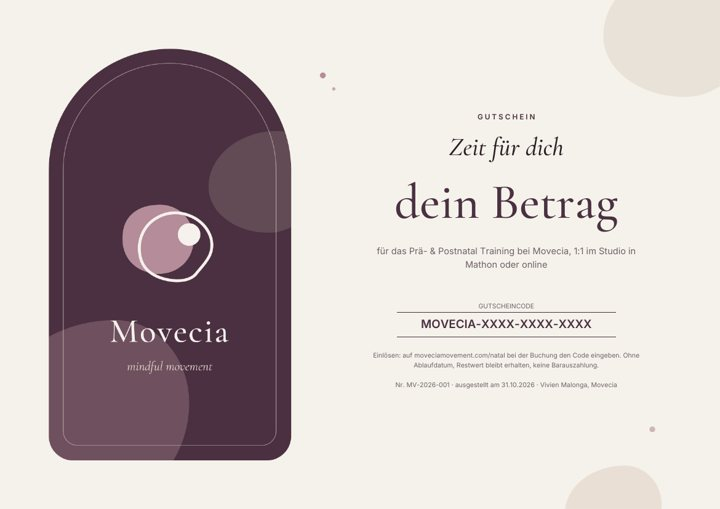
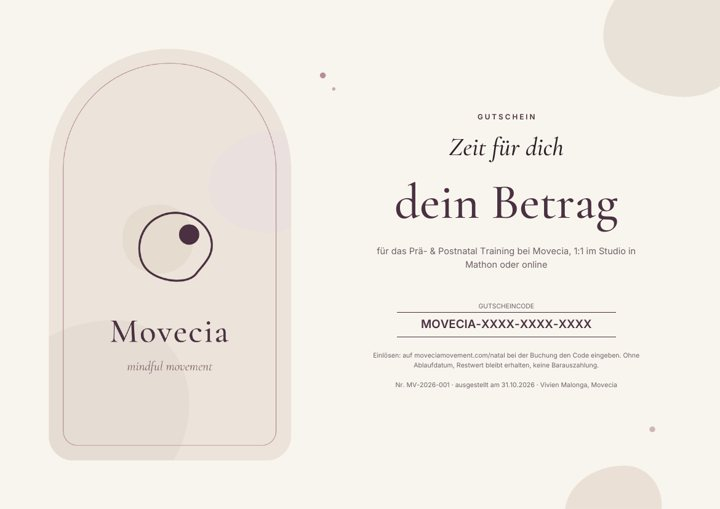
Movecia-Gutschein Design Bogen hell statt dunkel (Vivien)
Claude-Session: https://claude.ai/code/session_01NPiwcDA8CXSkHyMf118A8m

Changed region(s): [[0.0611, 0.0884, 0.4278, 0.9136]]

diff --git a/wildhearts/natal/mitglied/index.php b/wildhearts/natal/mitglied/index.php
@@ -476,7 +476,7 @@ if ($wdc): ?>
     <div class="wdv" id="wdv" hidden>
       <p style="margin-top:1rem;font-weight:600">Wähl dein Design</p>
       <div class="wdd">
-        <?php foreach (MV_VOUCHER_DESIGNS as $dn => $dl): ?><label><input type="radio" name="design" value="<?= $dn ?>"<?= $dn === 1 ? ' checked' : '' ?>><img src="/img/movecia/gutschein-<?= $dn ?>.jpg" alt="Design <?= $h($dl) ?>" loading="lazy" draggable="false"><span><?= $h($dl) ?></span></label><?php endforeach; ?>
+        <?php foreach (MV_VOUCHER_DESIGNS as $dn => $dl): ?><label><input type="radio" name="design" value="<?= $dn ?>"<?= $dn === 1 ? ' checked' : '' ?>><img src="/img/movecia/gutschein-<?= $dn ?>.jpg?v=2" alt="Design <?= $h($dl) ?>" loading="lazy" draggable="false"><span><?= $h($dl) ?></span></label><?php endforeach; ?>
       </div>
       <p style="margin-top:1rem;font-weight:600">Ein Gutschein oder zwei?</p>
       <div class="wdch two">
